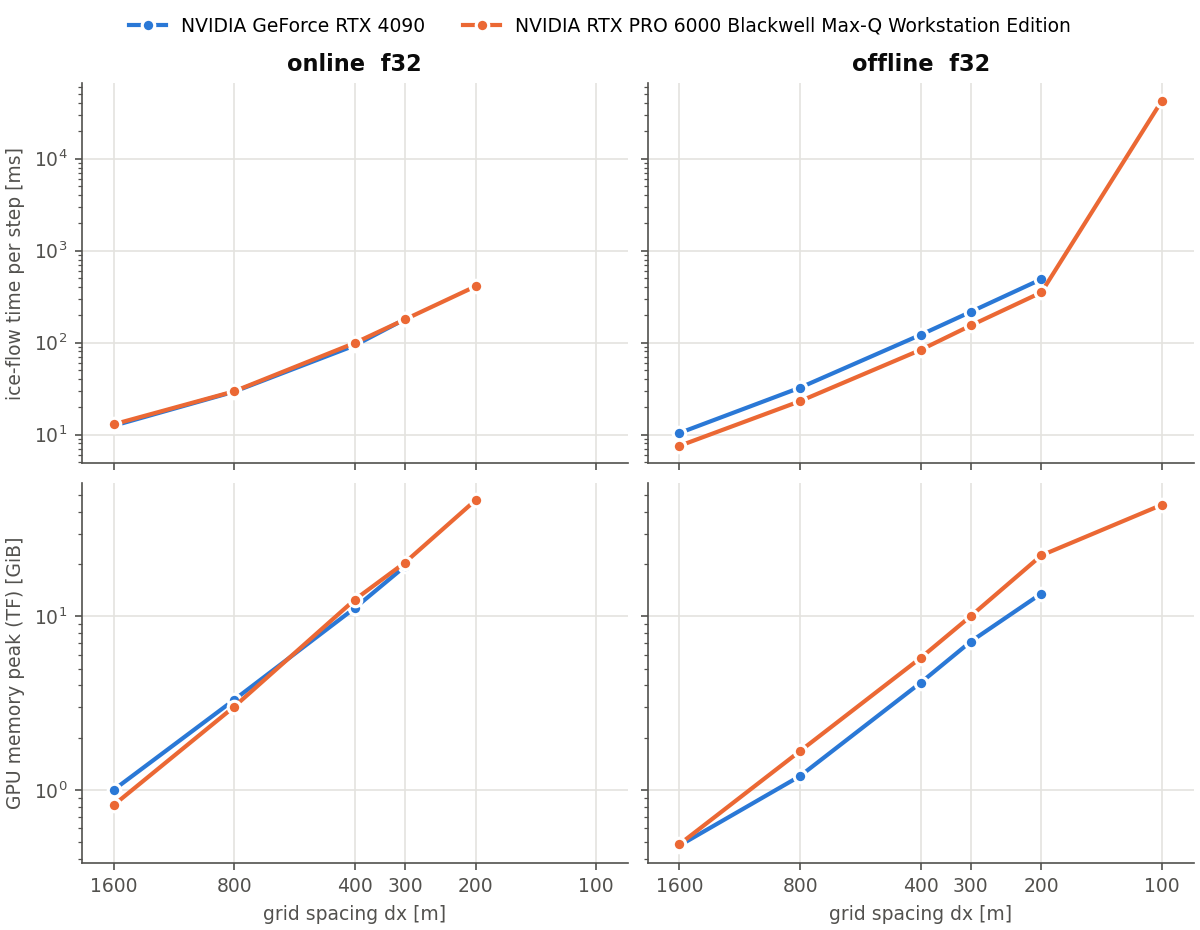
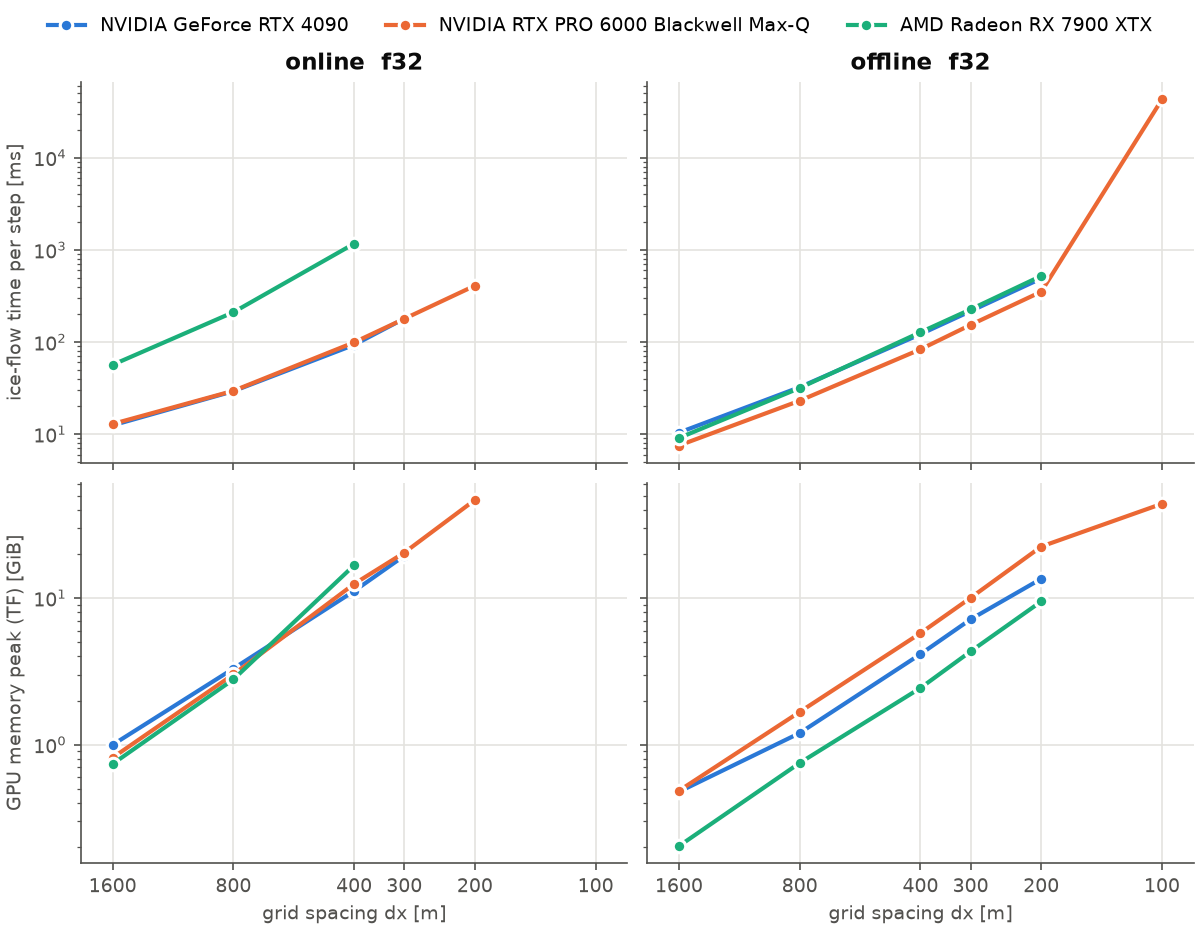
AMD GPUs (ROCm): RX 7900 XTX results, ROCm container, TF ceilings script
- run_bench.py: GPU memory from amdgpu sysfs when nvidia-smi is absent (the idle check silently passed on AMD
  before), HIP_VISIBLE_DEVICES, HIP OOM messages, ROCm version and GPU name in meta.json, --idle-mib,
  timezone-aware dates, selected env vars recorded in meta.json
- docker/Dockerfile.rocm: IGM 3.2.1 on rocm/tensorflow TF 2.17 (ROCm 7.0.2)
- scripts/ceilings.py: bandwidth, matmul and dahunet-shaped conv (fwd, both gradients) achieved by TF
- results/rx_7900_xtx: offline on par with the RTX 4090; online 5-12x slower, traced to MIOpen's
  conv gradient w.r.t. the weights (0.3-1 TFLOP/s vs 12-18 forward)
- plot_bench.py: shorter legend labels

diff --git a/run_bench.py b/run_bench.py
@@ -35,7 +35,8 @@ BASE_NX, BASE_NY, BASE_DX = 9020, 6020, 100.0      # data/input_bench.nc
 DEFAULT_RATIOS = [16, 8, 4, 3, 2]                  # 1600 m ... 200 m
 QUICK_RATIOS, QUICK_YEARS = [16, 8], 20
 
-OOM_PAT = re.compile(r"ResourceExhausted|out of memory|OOM when allocating|CUDA_ERROR_OUT_OF_MEMORY", re.I)
+OOM_PAT = re.compile(r"ResourceExhausted|out of memory|OOM when allocating|CUDA_ERROR_OUT_OF_MEMORY|"
+                     r"hipErrorOutOfMemory|HIP_ERROR_OUT_OF_MEMORY", re.I)
 COLS = ["case", "ratio", "dx_m", "nx", "ny", "cells_M", "status", "n_steps",
         "step_s", "iceflow_s", "iceflow_p10_s", "iceflow_p90_s", "Mcells_per_s",
         "first_step_s", "tf_peak_gib", "smi_peak_gib", "wall_s"]
@@ -49,7 +50,7 @@ b = tf.sysconfig.get_build_info()
 g = tf.config.list_physical_devices("GPU")
 d = tf.config.experimental.get_device_details(g[0]) if g else {}
 print(json.dumps(dict(tensorflow=tf.__version__, keras=keras.__version__, cuda=b.get("cuda_version"),
-                      cudnn=b.get("cudnn_version"), igm_version=version("igm-model"),
+                      cudnn=b.get("cudnn_version"), rocm=(open("/opt/rocm/.info/version").read().strip() if b.get("is_rocm_build") and os.path.exists("/opt/rocm/.info/version") else None), igm_version=version("igm-model"),
                       igm_path=os.path.dirname(igm.__file__), tf_gpu=d.get("device_name"),
                       compute_capability=d.get("compute_capability"))))
 """
@@ -66,16 +67,49 @@ def smi(gpu: int, query: str) -> str:
     return sh(["nvidia-smi", f"--query-gpu={query}", "--format=csv,noheader,nounits", "-i", str(gpu)])
 
 
+def amd_dev(gpu: int) -> Path | None:
+    """sysfs device of the gpu-th AMD GPU (amdgpu driver, PCI order), None if there is none."""
+    devs = sorted({d.resolve() for d in Path("/sys/class/drm").glob("card[0-9]*/device")
+                   if (d / "mem_info_vram_used").exists()})
+    return devs[gpu] if gpu < len(devs) else None
+
+
+def amd_read(gpu: int, name: str) -> str:
+    d = amd_dev(gpu)
+    try:
+        return (d / name).read_text().strip() if d else ""
+    except OSError:
+        return ""
+
+
+def amd_name(gpu: int) -> str:
+    name = _amd_name(gpu)
+    return name if not name or name.startswith("AMD") else "AMD " + name
+
+
+def _amd_name(gpu: int) -> str:
+    try:
+        return json.loads(sh(["amd-smi", "static", "-g", str(gpu), "-a", "--json"]))[
+            "gpu_data"][0]["asic"]["market_name"]
+    except Exception:
+        m = re.search(r"Card Series:\s*(.+)", sh(["rocm-smi", "-d", str(gpu), "--showproductname"]))
+        return m.group(1).strip() if m else ""
+
+
 def smi_used_mib(gpu: int) -> int | None:
-    """None where nvidia-smi does not report it (e.g. unified memory)."""
+    """None where neither nvidia-smi nor amdgpu sysfs reports it (e.g. unified memory)."""
     try:
         return int(smi(gpu, "memory.used").splitlines()[0])
     except Exception:
+        pass
+    try:
+        return int(amd_read(gpu, "mem_info_vram_used")) // 2**20
+    except ValueError:
         return None
 
 
 class SmiSampler(threading.Thread):
-    """Peak of the nvidia-smi used memory (MiB), polled every 0.5 s."""
+    """Peak of the GPU used memory (MiB, nvidia-smi or amdgpu sysfs), polled every 0.5 s."""
 
     def __init__(self, gpu: int):
         super().__init__(daemon=True)
@@ -97,17 +131,26 @@ class SmiSampler(threading.Thread):
 
 def run_env(gpu: int) -> dict:
     return dict(os.environ, TF_USE_LEGACY_KERAS="0", TF_CPP_MIN_LOG_LEVEL="3", PYTHONUNBUFFERED="1",
-                CUDA_VISIBLE_DEVICES=str(gpu))
+                CUDA_VISIBLE_DEVICES=str(gpu), HIP_VISIBLE_DEVICES=str(gpu))
 
 
 def collect_meta(args) -> dict:
-    meta = {"label": args.label, "date": datetime.now().isoformat(timespec="seconds"),
+    meta = {"label": args.label, "date": datetime.now().astimezone().isoformat(timespec="seconds"),
             "machine": platform.machine(), "cpu_count": os.cpu_count(), "gpu_index": args.gpu,
             "cases": args.cases, "ratios": args.ratios, "years": args.years}
+    env = {k: os.environ[k] for k in ("TF_CUDNN_WORKSPACE_LIMIT_IN_MB", "XLA_FLAGS", "MIOPEN_FIND_MODE")
+           if k in os.environ}
+    if env:
+        meta["env"] = env
     q = smi(args.gpu, "name,memory.total,driver_version")
     if q:
         name, mem, driver = [p.strip() for p in q.split(",")][:3]
         meta.update(gpu_name=name, gpu_mem=f"{mem} MiB", driver=driver)
+    elif amd_dev(args.gpu):
+        total = amd_read(args.gpu, "mem_info_vram_total")
+        meta.update(gpu_name=amd_name(args.gpu), gpu_mem=f"{int(total) // 2**20} MiB" if total else None,
+                    driver="amdgpu " + Path("/sys/module/amdgpu/version").read_text().strip()
+                    if Path("/sys/module/amdgpu/version").exists() else "amdgpu")
     out = sh([sys.executable, "-c", VERSIONS], timeout=300, env=run_env(args.gpu))
     try:
         meta.update(json.loads(out.splitlines()[-1]))
@@ -193,8 +236,8 @@ def write_csv(rows, path: Path):
 
 
 def default_label(gpu: int) -> str:
-    name = smi(gpu, "name") or "gpu"
-    name = re.sub(r"^NVIDIA\s+|GeForce\s+|\s+(Workstation|Server) Edition$", "", name)
+    name = smi(gpu, "name") or (amd_dev(gpu) and amd_name(gpu)) or "gpu"
+    name = re.sub(r"^NVIDIA\s+|GeForce\s+|^AMD\s+|Radeon\s+|\s+(Workstation|Server) Edition$", "", name)
     return re.sub(r"[^A-Za-z0-9]+", "_", name).strip("_").lower()
 
 
@@ -207,6 +250,8 @@ def main():
     p.add_argument("--years", type=float, help="model years per run, 1-yr steps (default 100)")
     p.add_argument("--quick", action="store_true", help=f"smoke test: ratios {QUICK_RATIOS}, {QUICK_YEARS} yr")
     p.add_argument("--timeout-min", type=float, default=60, help="kill a run after N min (0 = never)")
+    p.add_argument("--idle-mib", type=int, default=1000,
+                   help="the GPU counts as idle below this used memory (MiB, default %(default)s)")
     p.add_argument("--force", action="store_true", help="run even if the GPU is not idle")
     p.add_argument("--dry-run", "-n", action="store_true", help="print the runs only")
     args = p.parse_args()
@@ -220,7 +265,7 @@ def main():
     args.label = args.label or default_label(args.gpu) + ("_quick" if args.quick else "")
 
     used = smi_used_mib(args.gpu)
-    if used is not None and used > 1000 and not (args.force or args.dry_run):
+    if used is not None and used > args.idle_mib and not (args.force or args.dry_run):
         sys.exit(f"GPU {args.gpu} already uses {used} MiB: the benchmark needs an idle GPU (--force to override).")
 
     res_dir, out_root = HERE / "results" / args.label, HERE / "outputs" / args.label

diff --git a/scripts/ceilings.py b/scripts/ceilings.py
@@ -1,0 +1,87 @@
+#!/usr/bin/env python3
+"""
+What TensorFlow can get out of this GPU, to put the IGM times in perspective. Same TF install as the benchmark,
+vendor-neutral (CUDA or ROCm). A few seconds per test.
+
+  copy_GBps         streaming bandwidth: y = 2x on a 1 GiB float32 tensor (XLA), bytes read + written
+  matmul_TFLOPs     float32 8192^2 matrix product
+  conv_*            3x3 convolutions shaped like dahunet layers on the 400 m grid (1 x 1505 x 2255, NHWC),
+                    C -> C channels, plain tf.function as in IGM's network: forward, backward w.r.t. the
+                    input, backward w.r.t. the filter. Reported as achieved TFLOP/s (2 * H * W * 9 * C^2).
+
+  ./scripts/ceilings.py --label rx_7900_xtx      # -> results/<label>/ceilings.json
+"""
+import argparse
+import json
+import os
+import statistics
+import time
+from pathlib import Path
+
+os.environ.setdefault("TF_CPP_MIN_LOG_LEVEL", "3")
+import tensorflow as tf  # noqa: E402
+
+H, W = 1505, 2255
+
+
+def timeit(fn, reps=20, warm=3):
+    for _ in range(warm):
+        r = fn()
+    _sync(r)
+    ts = []
+    for _ in range(reps):
+        t = time.perf_counter()
+        _sync(fn())
+        ts.append(time.perf_counter() - t)
+    return statistics.median(ts)
+
+
+def _sync(r):
+    r = r[0] if isinstance(r, (list, tuple)) else r
+    float(tf.reduce_sum(tf.reshape(r, [-1])[:1]).numpy())
+
+
+def copy_bw():
+    x = tf.random.uniform([2**28])                       # 1 GiB
+    f = tf.function(lambda: x * 2.0, jit_compile=True)
+    return 2 * x.shape[0] * 4 / timeit(f) / 1e9
+
+
+def matmul():
+    n = 8192
+    a = tf.random.normal([n, n])
+    f = tf.function(lambda: tf.matmul(a, a))
+    return 2 * n**3 / timeit(f) / 1e12
+
+
+def conv(c):
+    x = tf.random.normal([1, H, W, c])
+    k = tf.random.normal([3, 3, c, c]) * 0.1
+    flops = 2 * H * W * 9 * c * c
+    fwd = tf.function(lambda: tf.nn.conv2d(x, k, 1, "SAME"))
+    dy = fwd()
+    bwd_in = tf.function(lambda: tf.compat.v1.nn.conv2d_backprop_input(x.shape, k, dy, [1, 1, 1, 1], "SAME"))
+    bwd_k = tf.function(lambda: tf.compat.v1.nn.conv2d_backprop_filter(x, k.shape, dy, [1, 1, 1, 1], "SAME"))
+    return {f"conv{c}_{n}_TFLOPs": flops / timeit(f) / 1e12
+            for n, f in (("fwd", fwd), ("bwd_input", bwd_in), ("bwd_filter", bwd_k))}
+
+
+def main():
+    p = argparse.ArgumentParser(description=__doc__, formatter_class=argparse.RawDescriptionHelpFormatter)
+    p.add_argument("--label", required=True, help="results/<label>/ceilings.json")
+    a = p.parse_args()
+    g = tf.config.list_physical_devices("GPU")
+    out = {"tf_gpu": tf.config.experimental.get_device_details(g[0]).get("device_name") if g else None,
+           "tensorflow": tf.__version__, "rocm_build": bool(tf.sysconfig.get_build_info().get("is_rocm_build")),
+           "copy_GBps": copy_bw(), "matmul_TFLOPs": matmul()}
+    for c in (24, 48):
+        out.update(conv(c))
+    out = {k: round(v, 2) if isinstance(v, float) else v for k, v in out.items()}
+    print(json.dumps(out, indent=1))
+    d = Path(__file__).resolve().parent.parent / "results" / a.label
+    d.mkdir(parents=True, exist_ok=True)
+    (d / "ceilings.json").write_text(json.dumps(out, indent=1) + "\n")
+
+
+if __name__ == "__main__":
+    main()

diff --git a/plot_bench.py b/plot_bench.py
@@ -11,6 +11,7 @@ from __future__ import annotations
 import argparse
 import csv
 import json
+import re
 from pathlib import Path
 
 import matplotlib
@@ -21,6 +22,10 @@ HERE = Path(__file__).resolve().parent
 CASES = ["online_f32", "offline_f32"]
 COLORS = ["#2a78d6", "#eb6834", "#1baf7a", "#eda100", "#e87ba4", "#008300", "#4a3aa7", "#e34948"]
 INK, INK2, GRID = "#0b0b0b", "#52514e", "#e4e3df"
+
+
+def short(name: str) -> str:
+    return re.sub(r"\s+(Workstation|Server) Edition$", "", name)
 
 
 def load(d: Path):
@@ -65,7 +70,7 @@ def main():
                              if r["case"] == case and r["status"] == "ok" and r[key] == r[key])
                 if pts:
                     ax.plot(*zip(*pts), "-o", color=c, lw=2, ms=6, mec="white", mew=1.5,
-                            label=meta.get("gpu_name", label) if j == 0 and i == 0 else None)
+                            label=short(meta.get("gpu_name", label)) if j == 0 and i == 0 else None)
             ax.set_xscale("log")
             ax.set_xticks(dx_ticks, [f"{d:g}" for d in dx_ticks])
             ax.minorticks_off()
@@ -94,7 +99,7 @@ def main():
             r = next((r for r in rows if r["case"] == case and r["dx_m"] == args.dx), None)
             cells.append("-" if r is None else r["status"] if r["status"] != "ok"
                          else f"{r['iceflow_s'] * 1e3:.1f} / {r['tf_peak_gib']:.2f}")
-        print(f"{meta.get('gpu_name', label)[:33]:<34}" + "".join(f"{c:>22}" for c in cells))
+        print(f"{short(meta.get('gpu_name', label))[:33]:<34}" + "".join(f"{c:>22}" for c in cells))
 
 
 if __name__ == "__main__":

diff --git a/README.md b/README.md
@@ -42,6 +42,19 @@ pip install --user "numpy>=1.26,<2.0" matplotlib scipy "netCDF4>=1.6.5" xarray r
     oggm salem pyyaml importlib_resources tqdm hydra-core omegaconf nvtx typeguard rich "optuna>=3.0"
 ```
 
+AMD GPUs (ROCm): AMD's TensorFlow 2.17 image with IGM on top, `docker/Dockerfile.rocm`. Run inside the container,
+with the GPU passed through:
+
+```bash
+docker build -t igm-bench:rocm -f docker/Dockerfile.rocm docker/
+docker run --rm -it --device /dev/kfd --device /dev/dri \
+    --group-add $(getent group video | cut -d: -f3) --group-add $(getent group render | cut -d: -f3) \
+    --security-opt seccomp=unconfined --ipc=host --user $(id -u):$(id -g) \
+    -e HOME=/bench/outputs/.home -v $PWD:/bench -w /bench igm-bench:rocm ./run_bench.py --quick
+```
+
+`run_bench.py` reads the GPU memory from `nvidia-smi` on NVIDIA and from the amdgpu sysfs files on AMD.
+
 ## Run
 
 From this folder, on an idle GPU:
@@ -64,18 +77,38 @@ Ice-flow time per step (ms) / TensorFlow memory peak (GiB):
 |---|---|---|---|---|
 | [RTX 4090](results/rtx_4090) (24 GB) | 93 / 11.2 | OOM | 122 / 4.2 | 489 / 13.5 |
 | [RTX PRO 6000 Blackwell Max-Q](results/rtx_pro_6000_blackwell_max_q) (96 GB) | 99 / 12.5 | 409 / 46.7 | 83 / 5.8 | 351 / 22.5 |
+| [AMD Radeon RX 7900 XTX](results/rx_7900_xtx) (24 GB) | 1168 / 16.8 | OOM (at 300 m) | 128 / 2.4 | 521 / 9.5 |
 
-Both with TensorFlow 2.17 and IGM `d368b9e6`, whose code for these cases is that of v3.2.1.
+The NVIDIA GPUs with TensorFlow 2.17 and IGM `d368b9e6`, whose code for these cases is that of v3.2.1; the AMD GPU
+with TensorFlow 2.17.1 (ROCm 7.0.2) and IGM 3.2.1.
+
+On the RX 7900 XTX, inference (offline) is on par with the RTX 4090, but training (online) is 5-12× slower: the
+convolution gradient with respect to the weights is slow in MIOpen on this GPU (next section). Online at 300 m
+first aborts on MIOpen's 4 GiB work-buffer cap; with `TF_CUDNN_WORKSPACE_LIMIT_IN_MB=12288` it runs out of
+memory (the RTX 4090 runs it).
 
 The 100 m points of the figure (`--ratios 1`, 54 M cells) are slow: once an activation tensor exceeds 2³¹
 elements, the convolutions fall back to much slower kernels (about 40×). The memory peak includes cuDNN/XLA
 work buffers, which grow with the memory available: the grid at which a case runs out of memory is the more
 robust memory figure.
 
+## What TensorFlow gets from the GPU
+
+`scripts/ceilings.py` measures, in the same TensorFlow, the streaming bandwidth, a float32 matrix product, and
+3×3 convolutions shaped like the dahunet layers on the 400 m grid (C → C channels, forward and both
+gradients), as achieved TFLOP/s (`results/<label>/ceilings.json`). It tells how much of the hardware the
+software stack reaches, and which operation limits the ice flow.
+
+| GPU | copy GB/s (spec) | matmul TFLOP/s (spec) | conv C=24: fwd / ∂input / ∂weights | conv C=48: fwd / ∂input / ∂weights |
+|---|---|---|---|---|
+| AMD Radeon RX 7900 XTX | 673 (960) | 25.6 (61.4, dual-issue) | 11.9 / 11.5 / **0.26** | 17.8 / 19.2 / **0.99** |
+
+To be completed with the NVIDIA GPUs.
+
 ## Add your GPU
 
-Run the full benchmark, check `results/<label>/meta.json`, run `./plot_bench.py`, and open a pull request with
-`results/<label>/`, the figure and a row in the table above.
+Run the full benchmark and `./scripts/ceilings.py --label <label>`, check `results/<label>/meta.json`, run
+`./plot_bench.py`, and open a pull request with `results/<label>/`, the figure and a row in the tables above.
 
 ## Metrics
 
@@ -84,7 +117,7 @@ Run the full benchmark, check `results/<label>/meta.json`, run `./plot_bench.py`
 | `iceflow_s` | ice-flow time per step (s), median over steps 2…N, GPU-synchronised |
 | `step_s` | whole time step (s), same median |
 | `tf_peak_gib` | TensorFlow memory peak (GiB) |
-| `smi_peak_gib` | nvidia-smi memory peak of the GPU (GiB), when reported |
+| `smi_peak_gib` | memory peak of the whole GPU (GiB) from nvidia-smi or amdgpu sysfs, when reported |
 | `first_step_s` | first step, including the XLA compilation |
 | `status` | `ok`, `OOM`, `TIMEOUT` or `FAIL` (see `outputs/<label>/<case>_rNN.log`) |
 
